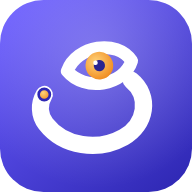
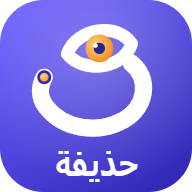
إعادة تسمية المشروع إلى «حذيفة» مع الشعار والحرف على الأيقونات، وعرض اللجنة التجريبي + تشغيل بضغطة (ain-v13)

diff --git a/js/views/commands.js b/js/views/commands.js
@@ -198,6 +198,34 @@ export function createCommandsView(app) {
       ];
       arm.setConfig(pc); save(); renderPc(); toast('تم الضبط: يسار = التالي، يمين = السابق', 'ok');
     };
+    // بطاقة التثبيت خطوة بخطوة (تُبنى منفصلةً لسهولة القراءة)
+    const detailRow = (label, href) => h('a.btn.ghost.sm', { href, download: href.startsWith('http') ? undefined : href.split('/').pop(), target: href.startsWith('http') ? '_blank' : null, rel: 'noopener' }, icon('download'), h('span', label));
+    const stepsCard = h('details', { open: true }, h('summary', 'تثبيت برنامج الحاسوب خطوة بخطوة'),
+      h('ol.small', { style: { paddingInlineStart: '20px', lineHeight: '1.9' } },
+        h('li', 'ثبّت Python 3.10–3.12 من python.org، وفعّل خيار «Add Python to PATH» أثناء التثبيت.'),
+        h('li', 'نزّل ثلاثة ملفات وضعها في مجلد واحد: ', h('b', 'ain_pc_controller.py'), '، و', h('b', 'control_config.json'), ' من زر «صدّر إعداد الحاسوب»، و', h('b', 'hand_landmarker.task'), ' من الرابط أدناه.'),
+        h('li', 'افتح Terminal أو CMD في المجلد، ونفّذ مرة واحدة: ', h('span.kbd', 'py -m pip install opencv-python mediapipe numpy')),
+        h('li', 'أو استعمل ', h('b', 'run_windows.bat'), ' — يثبّت المكتبات ويشغّل البرنامج بضغطة واحدة.')),
+      h('p.small.muted', 'إذا لم تظهر الكاميرا فأغلق أي برنامج آخر يستخدمها. وإذا فشل تثبيت mediapipe فاستخدم Python 3.11.'),
+      h('div.row',
+        detailRow('تحميل Python', 'https://www.python.org/downloads/'),
+        detailRow('نموذج اليد', 'vendor/hand_landmarker.task'),
+        detailRow('برنامج التحكم', 'pc/ain_pc_controller.py')));
+    // بطاقة يوم اللجنة: عرض جاهز يُدار بالإيماءات
+    const demoRow = h('div.row',
+      h('a.btn.primary', { href: 'demo/hudhaifa_demo.pptx', download: 'hudhaifa_demo.pptx', style: { textDecoration: 'none' } }, icon('download'), h('span', 'نزّل عرض اللجنة التجريبي')),
+      h('a.btn.ghost', { href: 'pc/run_windows.bat', download: 'run_windows.bat', style: { textDecoration: 'none' } }, icon('download'), h('span', 'تشغيل بضغطة')),
+      h('a.btn.ghost', { href: 'pc/requirements.txt', download: 'requirements.txt', style: { textDecoration: 'none' } }, icon('download'), h('span', 'المتطلبات')));
+    const committeeCard = h('div.card', h('h2', 'يوم اللجنة'),
+      h('p.small.muted', 'عرض تقديمي جاهز مبني لهذا المشروع — شريحة «جرّبها معنا الآن» تدعو أستاذك أن يلوّح كفه، فتتجاوب الشرائح مع يده بلا لمس.'),
+      demoRow,
+      h('ol.small', { style: { paddingInlineStart: '20px', lineHeight: '1.9' } },
+        h('li', 'قبل اليوم: نزّل ', h('b', 'عرض اللجنة التجريبي'), ' وافتحه في PowerPoint للتأكد. شريحة «جرّبها معنا الآن» هي الشريحة الخامسة.'),
+        h('li', 'صدّر ', h('b', 'إعداد الحاسوب'), ' (الزر أعلاه) وضعه في مجلد واحد مع ', h('b', 'run_windows.bat'), ' و', h('b', 'ain_pc_controller.py'), ' و', h('b', 'hand_landmarker.task'), '.'),
+        h('li', 'نزّل Python إن لم يكن مثبتاً، ثم اضغط ', h('b', 'تشغيل بضغطة'), ' — أول ضغطة تثبّت المكتبات وحدها.'),
+        h('li', 'فعّل «التحكم مفعّل دائماً» أعلى هذا القسم، واضغط F5 في PowerPoint.'),
+        h('li', 'قف أمام كاميرا الحاسوب: لوِّح لليسار للشريحة التالية ولليمين للسابقة — تتحكم في العرض الحي وأنت واقف بعيداً عن الكمبيوتر.'),
+        h('li', 'لحظة الإبهار الثانية: افتح التطبيق على الهاتف، واضغط فقاعة الطوارئ الحمراء العائمة — صفّارة ورسالة جاهزة أمام الجميع.')));
     pcBox.append(
       h('p.small.muted', 'تشغّل برنامجاً صغيراً على الحاسوب (بكاميرته) فيضغط الأزرار عند إيماءاتك: تلويح اليد في الهواء لليسار = الشريحة التالية في PowerPoint، ولليمين = الشريحة السابقة، مع تحكم بالفيديو والصوت. جرّب الإيماءات هنا أولاً.'),
       h('label.switch', h('span', 'التحكم مفعّل دائماً (بلا إيماءة تسليح — أخطر على الأخطاء العشوائية)'), always),
@@ -211,19 +239,8 @@ export function createCommandsView(app) {
       btn('أضف أمراً', { cls: 'ghost', ic: 'plus', onclick: () => { pc.bindings.push({ key: opts[0].key, action: 'right' }); save(); renderPc(); } }),
       simEl,
       h('div.row', btn('صدّر إعداد الحاسوب', { cls: 'primary', ic: 'download', onclick: exportPc }), h('a.btn.ghost', { href: 'pc/ain_pc_controller.py', download: 'ain_pc_controller.py' }, icon('download'), h('span', 'برنامج الحاسوب'))),
-      h('details', { open: true }, h('summary', 'تثبيت برنامج الحاسوب خطوة بخطوة'),
-        h('ol.small', { style: { paddingInlineStart: '20px', lineHeight: '1.9' } },
-          h('li', 'ثبّت Python 3.10–3.12 من python.org، وفعّل خيار «Add Python to PATH» أثناء التثبيت.'),
-          h('li', 'نزّل ثلاثة ملفات وضعها في مجلد واحد: ', h('b', 'ain_pc_controller.py'), '، و', h('b', 'control_config.json'), ' من زر «صدّر إعداد الحاسوب»، و', h('b', 'hand_landmarker.task'), ' من الرابط أدناه.'),
-          h('li', 'افتح Terminal أو CMD في المجلد، ونفّذ مرة واحدة: ', h('span.kbd', 'py -m pip install opencv-python mediapipe numpy')),
-          h('li', 'شغّل: ', h('span.kbd', 'py ain_pc_controller.py'), ' واسمح للبرنامج باستخدام الكاميرا.'),
-          h('li', 'افتح PowerPoint، اعرض إيماءة التسليح (حرف V افتراضياً) ثانيتين — أو فعّل «التحكم مفعّل دائماً» في التطبيق — ثم حرّك يدك لليسار (تلويح) للشريحة التالية ولليمين للسابقة.'),
-          h('li', 'اضغط ', h('span.kbd', 'Q'), ' لإيقاف البرنامج.')),
-        h('p.small.muted', 'إذا لم تظهر الكاميرا فأغلق أي برنامج آخر يستخدمها. وإذا فشل تثبيت mediapipe فاستخدم Python 3.11.'),
-        h('div.row',
-          h('a.btn.ghost.sm', { href: 'https://www.python.org/downloads/', target: '_blank', rel: 'noopener' }, icon('download'), h('span', 'تحميل Python')),
-          h('a.btn.ghost.sm', { href: 'vendor/hand_landmarker.task', download: 'hand_landmarker.task' }, icon('download'), h('span', 'نموذج اليد')),
-          h('a.btn.ghost.sm', { href: 'pc/ain_pc_controller.py', download: 'ain_pc_controller.py' }, icon('download'), h('span', 'برنامج التحكم'))))
+      stepsCard,
+      committeeCard,
     );
     renderArm();
   }

diff --git a/js/app.js b/js/app.js
@@ -1,4 +1,4 @@
-// عين — نقطة البداية: الخدمات المشتركة، التنقّل، مسرح الكاميرا، الإعدادات.
+// حذيفة — نقطة البداية: الخدمات المشتركة، التنقّل، مسرح الكاميرا، الإعدادات.
 
 import { h, icon, btn, toast, sheet } from './ui.js';
 import { Store } from './store.js';
@@ -462,7 +462,7 @@ class App {
         rebuildVoices();
         this.say(baseLang() === 'ar' ? 'مرحبًا' : 'Hello');
       };
-      voiceSel.onchange = (e) => this.say(baseLang() === 'ar' ? 'مرحبًا أنا عين، سأصدّ ما تقوله' : 'Hello, I am AIN', { voiceURI: e.target.value });
+      voiceSel.onchange = (e) => this.say(baseLang() === 'ar' ? 'مرحبًا أنا حذيفة، سأصدّ ما تقوله' : 'Hello, I am Hudhaifa', { voiceURI: e.target.value });
       const speakEach = h('input', { type: 'checkbox', checked: s.speakEach, onchange: (e) => this.saveSettings({ speakEach: e.target.checked }) });
       const skel = h('input', { type: 'checkbox', checked: s.skeleton, onchange: (e) => this.saveSettings({ skeleton: e.target.checked }) });
       const theme = h('div.seg', ['auto', 'light', 'dark'].map((v) => h('button', { type: 'button', 'aria-pressed': String(s.theme === v), onclick: (e) => { this.saveSettings({ theme: v }); theme.querySelectorAll('button').forEach((b) => b.setAttribute('aria-pressed', 'false')); e.currentTarget.setAttribute('aria-pressed', 'true'); } }, { auto: 'تلقائي', light: 'فاتح', dark: 'داكن' }[v])));
@@ -476,7 +476,7 @@ class App {
       const dg = this.cam.diag || {};
       const diagText = `engine=${dg.backend || '-'} video=${dg.video || '-'} frames=${dg.frames || 0} hands=${dg.hands || 0} pose=${dg.pose || 0} errors=${dg.errors || 0} rvfc=${dg.rvfc ? 1 : 0}${dg.lastError ? ' last=' + dg.lastError : ''}`;
       const voiceInfo = tts.supported ? (tts.hasArabic ? 'صوت عربي فصيح متوفر على جهازك.' : 'لا يوجد صوت عربي مثبّت في جهازك؛ ثبّت صوتاً عربياً (فصحى) من إعدادات النظام.') : 'النطق غير مدعوم في هذا المتصفح.';
-      const testBtn = btn('جرّب الصوت', { ic: 'speaker', cls: 'sm', onclick: () => this.say('مرحبًا، أنا عين') });
+      const testBtn = btn('جرّب الصوت', { ic: 'speaker', cls: 'sm', onclick: () => this.say('مرحبًا، أنا حذيفة') });
       rebuildLangs(); rebuildGender(); rebuildVoices();
       // الأصوات قد تتأخر عن فتح الإعدادات (خاصة على الجوال)؛ نُعيد البناء عند بلوغها
       tts.onVoicesChanged(() => { rebuildLangs(); rebuildVoices(); });      return h('div', { style: { display: 'flex', flexDirection: 'column', gap: '14px' } },

diff --git a/js/views/learn.js b/js/views/learn.js
@@ -138,7 +138,7 @@ export function createLearnView(app) {
     sheet('تمرين الأبجدية المتسلسل', (close) => {
       const inp = h('input', { type: 'text', placeholder: 'اكتب كلمة أو اسمًا', enterKeyHint: 'go' });
       const p = letterProgress(app.signs);
-      const presets = h('div.row', { style: { gap: '6px' } }, ['أهلا', 'سمير', 'عين'].map((w) => h('button.btn.sm', { type: 'button', onclick: () => { inp.value = w; } }, w)));
+      const presets = h('div.row', { style: { gap: '6px' } }, ['أهلا', 'سمير', 'حذيفة'].map((w) => h('button.btn.sm', { type: 'button', onclick: () => { inp.value = w; } }, w)));
       return h('div', { style: { display: 'flex', flexDirection: 'column', gap: '10px' } },
         h('p.small.muted', `تُنفَّذ الكلمة حرفاً حرفاً بإشاراتك المسجّلة. سجّلت ${p.done} من ${p.total} حرفاً؛ الحروف غير المسجّلة تُخطى وتظهر بولّون فاتح.`),
         inp, presets,

diff --git a/js/course_data.js b/js/course_data.js
@@ -113,7 +113,7 @@ export const UNITS = [
     desc: 'إشارات عائلتي وأسماء محيطي: قاموس يعيش بيدك أنت لا في خادم بعيد.',
     steps: [
       { t: 'note', h: 'القاموس الذي لا يخطئك', p: [
-        'قاموس «عين» يتعلم منك: العيّنات التي تسجّلها هي التي يصنّف بها يديك، فتزداد الدقة مع استخدامك.',
+        'قاموس «حذيفة» يتعلم منك: العيّنات التي تسجّلها هي التي يصنّف بها يديك، فتزداد الدقة مع استخدامك.',
         'لا تختلق معنى إشارة من عندك؛ إن لم تكن متأكداً اسأل مختصاً أو صمّياً خبيراً ثم سجّلها كما أرشدك.',
         'العملية العملية: تسجيل إشارة، اختبارها في «ترجمة»، تعديلها إن خلطت، ثم تركها تعمل يومياً.',
       ] },

diff --git a/index.html b/index.html
@@ -6,7 +6,7 @@
 <meta name="theme-color" content="#4640d4">
 <meta name="mobile-web-app-capable" content="yes">
 <meta name="apple-mobile-web-app-capable" content="yes">
-<title>عين</title>
+<title>حذيفة</title>
 <link rel="manifest" href="manifest.webmanifest">
 <link rel="icon" href="icons/favicon-64.png">
 <link rel="apple-touch-icon" href="icons/icon-192.png">
@@ -19,8 +19,8 @@
 <div id="app">
   <header class="top">
     <div class="brand">
-      <img src="icons/logo.svg" alt="" width="36" height="36">
-      <div><h1>عين</h1><small>ترى الإشارة وتحكي، وتسمع وتُري</small></div>
+      <img src="icons/logo.svg" alt="حذيفة" width="36" height="45">
+      <div><h1>حذيفة</h1><small>ترى الإشارة وتحكي، وتسمع وتُري</small></div>
     </div>
     <span class="chip-status" id="status-chip">جارٍ التحميل…</span>
     <button class="iconbtn" id="btn-settings" aria-label="الإعدادات"></button>

diff --git a/sw.js b/sw.js
@@ -1,5 +1,5 @@
-// عين — عامل خدمة بسيط: يخزّن واجهة التطبيق ليعمل بلا إنترنت بعد أول زيارة.
-const VERSION = 'ain-v12';
+// حذيفة — عامل خدمة بسيط: يخزّن واجهة التطبيق ليعمل بلا إنترنت بعد أول زيارة.
+const VERSION = 'ain-v13';
 const SHELL = ['./', 'index.html', 'css/style.css', 'manifest.webmanifest', 'data/starter.json', 'icons/logo.svg', 'icons/icon-192.png', 'icons/icon-512.png',
   'js/app.js', 'js/ui.js', 'js/store.js', 'js/engine.js', 'js/camera.js', 'js/speech.js', 'js/arabic.js', 'js/features.js', 'js/classifier.js', 'js/pairmodel.js', 'js/motion.js', 'js/handModel.js', 'js/calibrate.js', 'js/alphabet.js',
   'js/hand3d.js', 'js/anims.js', 'js/learn.js', 'js/recorder.js', 'js/commands.js', 'js/names.js', 'js/pcexport.js', 'js/course_data.js',

diff --git a/js/views/dict.js b/js/views/dict.js
@@ -403,7 +403,7 @@ export function createDictView(app) {
     const payload = { format: 'signbridge', version: 1, exported: new Date().toISOString(), signs: app.signs.map((s) => ({ ...s })) };
     const blob = new Blob([JSON.stringify(payload)], { type: 'application/json' });
     const file = new File([blob], 'ain-dictionary.json', { type: 'application/json' });
-    if (navigator.canShare?.({ files: [file] })) { navigator.share({ files: [file], title: 'قاموس عين' }).catch(() => {}); return; }
+    if (navigator.canShare?.({ files: [file] })) { navigator.share({ files: [file], title: 'قاموس حذيفة' }).catch(() => {}); return; }
     const a = h('a', { href: URL.createObjectURL(blob), download: 'ain-dictionary.json' });
     document.body.append(a); a.click(); a.remove();
     toast('تم تنزيل الملف', 'ok');

diff --git a/pc/ain_pc_controller.py b/pc/ain_pc_controller.py
@@ -660,7 +660,7 @@ def main():
             cv2.putText(view, last_msg, (10, 60), cv2.FONT_HERSHEY_SIMPLEX, 0.9, (255, 255, 255), 2)
         if keys.dry_run:
             cv2.putText(view, 'DRY RUN', (w - 130, 28), cv2.FONT_HERSHEY_SIMPLEX, 0.7, (80, 80, 255), 2)
-        cv2.imshow('Ain', view)
+        cv2.imshow('Hudhaifa', view)
         k = cv2.waitKey(1) & 0xFF
         if k in (ord('q'), 27):
             break
